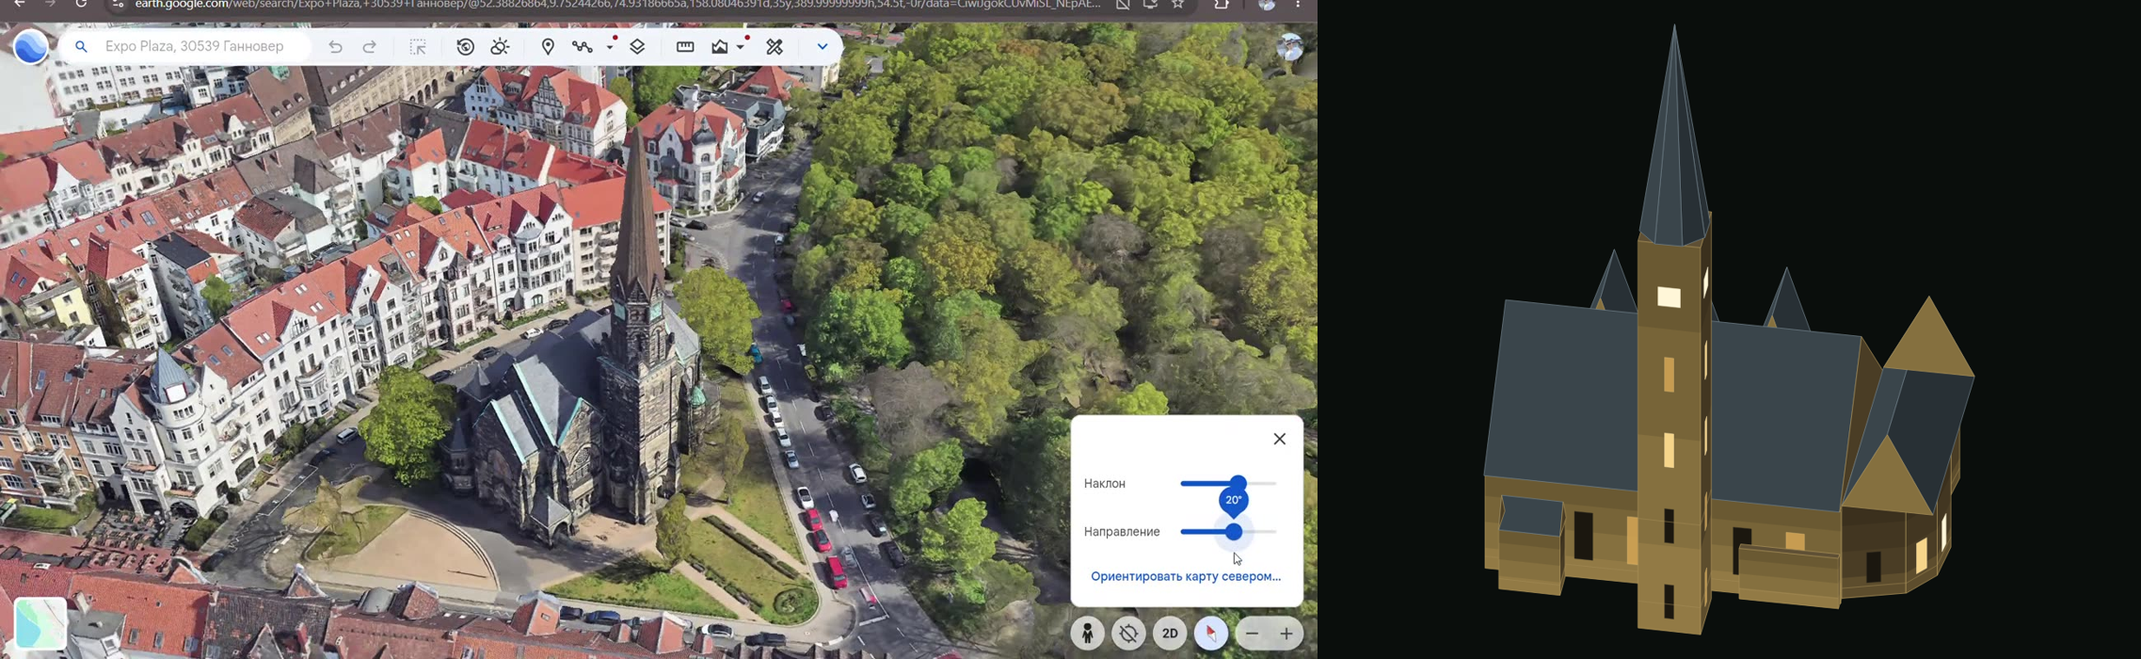
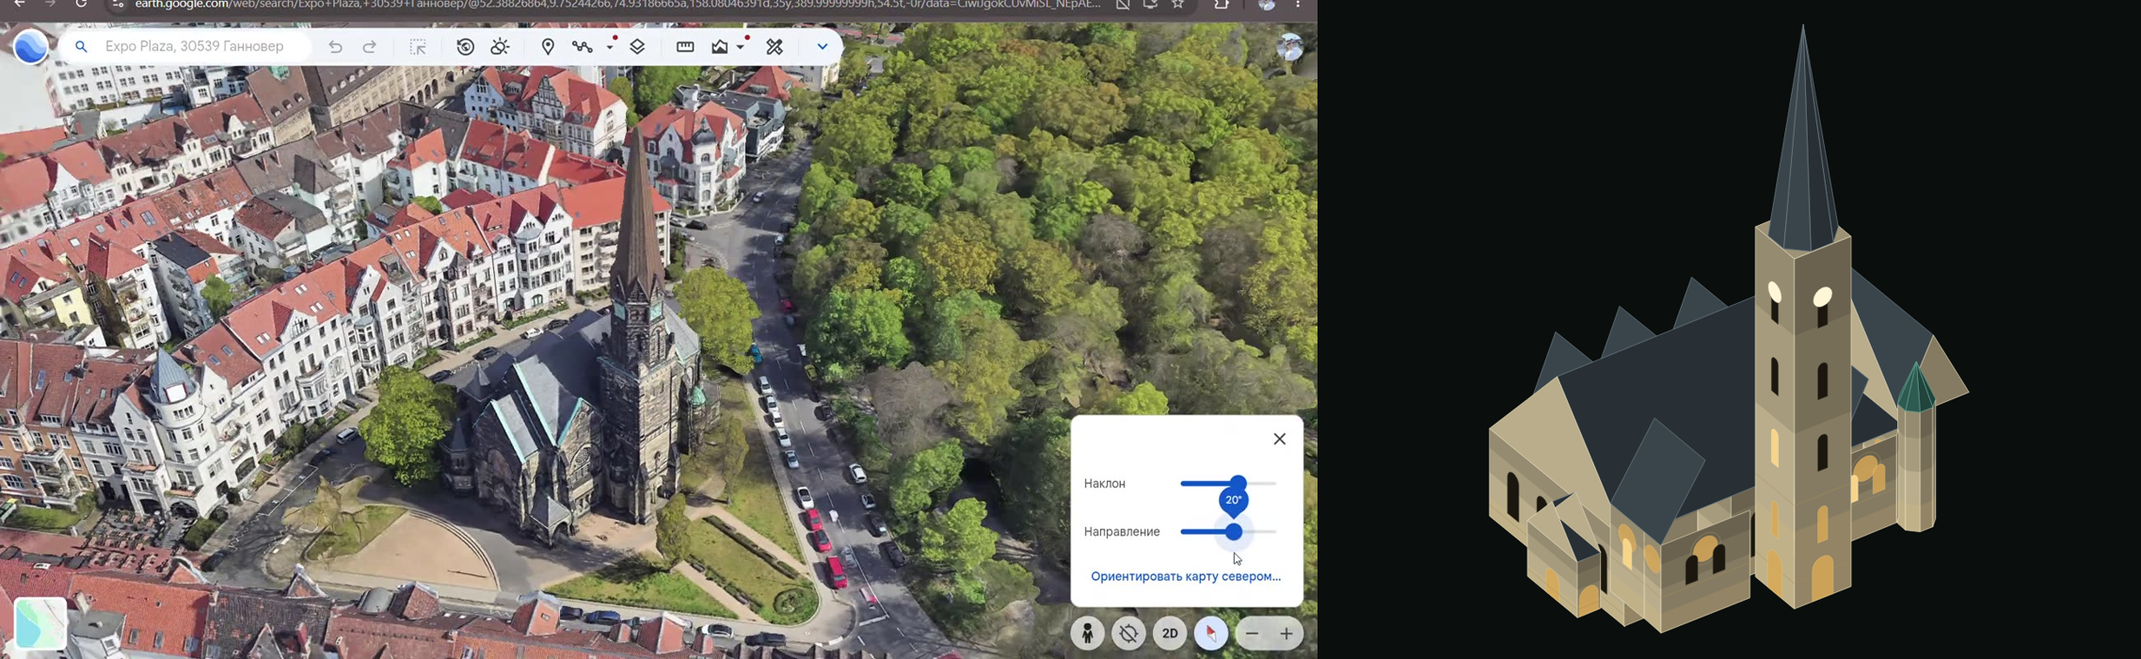
Markuskirche: светлый песчаник, арочные окна, двойная крыша спереди, южные щипцы, башенка
Claude-Session: https://claude.ai/code/session_01VkPSq8kwu8LeaT24qkSQHQ

Changed region(s): [[0.6866, 0.06, 0.9363, 0.96]]

diff --git a/landmarks/markuskirche.js b/landmarks/markuskirche.js
@@ -5,7 +5,7 @@
    Jeder Teil ist in konvexe Stücke zerlegt (Sortierung ohne Durchdringung); Dächer entstehen aus dem Teilumriss. */
 (() => {
   const Z0 = 1;
-  /*DATA*/const D = [[0,11,0,[-16.3,2.9,-20.9,-3.7,-25.0,-0.8,-11.2,18.8],7],[0,11,0,[3.4,-10.9,-2.4,-6.9,-4.0,-5.7,-9.8,-1.7,-10.6,-1.1,-16.3,2.9,-11.2,18.8,17.5,-1.2],85],[0,11,0,[-9.8,-1.7,-14.3,-8.3,-15.2,-7.7,-10.6,-1.1],7],[0,11,0,[-2.4,-6.9,-7.0,-13.4,-8.6,-12.3,-4.0,-5.7],7],[0,11,0,[3.7,-20.9,-1.2,-17.5,3.4,-10.9,17.5,-1.2],11],[0,11,1,[18.3,-15.7,10.9,-19.2,3.4,-21.3,16.9,-2.1,20.7,-7.1,20.7,-11.4],61],[0,11,1,[10.9,-19.2,12.1,-21.9,10.7,-24.5,8.2,-24.9,3.4,-21.3],15],[0,11,2,[-1.3,-17.4,-1.4,-17.7,-7.1,-13.7],3],[0,11,2,[-2.4,-7.0,3.3,-10.9,-1.3,-17.4,-7.1,-13.7],11],[0,11,3,[-8.6,-12.3,-8.8,-12.5,-14.5,-8.5],3],[0,11,3,[-9.7,-1.8,-4.1,-5.7,-8.6,-12.3,-14.5,-8.5],11],[0,11,4,[-15.2,-7.7,-15.3,-8.0,-21.1,-3.9],3],[0,11,4,[-16.3,2.8,-10.6,-1.2,-15.2,-7.7,-21.1,-3.9],11],[0,46,5,[8.0,6.9,2.9,10.4,6.4,15.4,11.5,11.9],15],[0,7,6,[-4.7,14.3,-9.6,17.7,-7.8,20.3,-2.8,16.9],15],[0,6,7,[9.5,4.4,9.9,5.0,17.9,-0.6,17.5,-1.2],15],[46,46,8,[4.2,9.3,3.8,11.9,5.3,14.1,7.9,14.6,10.1,13.0,10.6,10.4,9.1,8.2,6.4,7.7],255]], T = [[11,23.5,2,12.5,0,0,-11.2,18.8,-25.0,-0.8,-20.9,-3.7,-16.3,2.9,-10.6,-1.1,-15.2,-7.7,-14.3,-8.3,-9.8,-1.7,-4.0,-5.7,-8.6,-12.3,-7.0,-13.4,-2.4,-6.9,3.4,-10.9,-1.2,-17.5,3.7,-20.9,17.5,-1.2],[11,20,2,9,0,0,20.7,-7.1,16.9,-2.1,3.4,-21.3,8.2,-24.9,10.7,-24.5,12.1,-21.9,10.9,-19.2,18.3,-15.7,20.7,-11.4],[11,22,2,11,0,0,-1.4,-17.7,-1.3,-17.4,3.3,-10.9,-2.4,-7.0,-7.1,-13.7],[11,22,2,11,0,0,-8.8,-12.5,-8.6,-12.3,-4.1,-5.7,-9.7,-1.8,-14.5,-8.5],[11,22,2,11,0,0,-15.3,-8.0,-15.2,-7.7,-10.6,-1.2,-16.3,2.8,-21.1,-3.9],[46,46,0,0,0,0,6.4,15.4,2.9,10.4,8.0,6.9,11.5,11.9],[7,10,2,3,0,0,-7.8,20.3,-9.6,17.7,-4.7,14.3,-2.8,16.9],[6,6,0,0,0,0,17.9,-0.6,9.9,5.0,9.5,4.4,17.5,-1.2],[46,70,1,24,0,0,9.1,8.2,10.6,10.4,10.1,13.0,7.9,14.6,5.3,14.1,3.8,11.9,4.2,9.3,6.4,7.7]], IDS = ["hall", "chor-o", "giebel3", "giebel2", "giebel1", "turm", "anbau-sw", "anbau-se", "helm"];/*END*/
+  /*DATA*/const D = [[0,11,0,[17.1,-1.1,17.4,-1.3,3.7,-20.9],3],[0,11,0,[13.4,-5.7,16.9,-0.8,17.1,-1.1,3.7,-20.9],3],[0,11,0,[3.4,-10.9,13.4,-5.7,3.7,-20.9,-1.2,-17.5],12],[0,11,0,[-3.6,6.2,-0.2,11.1,9.8,4.1,6.4,-0.8],7],[0,11,0,[3.4,-10.9,-2.4,-6.9,-4.0,-5.7,-9.8,-1.7,-10.6,-1.1,-16.3,2.9,-12.6,12.5,-3.6,6.2,6.4,-0.8,13.4,-5.7],341],[0,11,0,[-25.0,-0.8,-11.2,18.8,-9.2,17.4,-12.6,12.5],7],[0,11,0,[-16.3,2.9,-20.9,-3.7,-25.0,-0.8,-12.6,12.5],3],[0,11,0,[-9.8,-1.7,-14.3,-8.3,-15.2,-7.7,-10.6,-1.1],7],[0,11,0,[-2.4,-6.9,-7.0,-13.4,-8.6,-12.3,-4.0,-5.7],7],[0,11,1,[18.3,-15.7,10.9,-19.2,3.4,-21.3,16.9,-2.1,20.7,-7.1,20.7,-11.4],61],[0,11,1,[10.9,-19.2,12.1,-21.9,10.7,-24.5,8.2,-24.9,3.4,-21.3],15],[0,11,2,[-9.1,17.4,-7.4,20.0,1.7,13.7,-3.6,6.3],7],[0,11,2,[-3.6,6.3,-12.6,12.5,-9.1,17.4],3],[0,11,3,[9.9,4.1,10.4,4.9,16.8,0.4,17.0,-0.6,13.4,-5.7],15],[0,11,3,[13.4,-5.7,6.5,-0.8,9.9,4.1],3],[0,11,4,[-1.3,-17.4,-1.4,-17.7,-7.1,-13.7],3],[0,11,4,[-2.4,-7.0,3.3,-10.9,-1.3,-17.4,-7.1,-13.7],11],[0,11,5,[-8.6,-12.3,-8.8,-12.5,-14.5,-8.5],3],[0,11,5,[-9.7,-1.8,-4.1,-5.7,-8.6,-12.3,-14.5,-8.5],11],[0,11,6,[-15.2,-7.7,-15.3,-8.0,-21.1,-3.9],3],[0,11,6,[-16.3,2.8,-10.6,-1.2,-15.2,-7.7,-21.1,-3.9],11],[0,44,7,[8.1,5.9,2.3,10.0,6.3,15.7,12.1,11.7],15],[0,7,8,[-21.1,9.9,-16.0,17.3,-13.6,15.6,-18.7,8.2],15],[0,15,9,[17.1,-1.1,16.9,0.5,17.7,1.7,19.2,2.0,20.5,1.1,20.8,-0.4,19.9,-1.7,18.4,-1.9],255],[44,44,10,[4.1,8.8,3.6,11.6,5.2,13.9,8.0,14.4,10.3,12.8,10.8,10.0,9.2,7.7,6.4,7.2],255]], T = [[11,24.5,2,13.5,0,0,3.7,-20.9,17.4,-1.3,17.1,-1.1,16.9,-0.8,13.4,-5.7,6.4,-0.8,9.8,4.1,-0.2,11.1,-3.6,6.2,-12.6,12.5,-9.2,17.4,-11.2,18.8,-25.0,-0.8,-20.9,-3.7,-16.3,2.9,-10.6,-1.1,-15.2,-7.7,-14.3,-8.3,-9.8,-1.7,-4.0,-5.7,-8.6,-12.3,-7.0,-13.4,-2.4,-6.9,3.4,-10.9,-1.2,-17.5],[11,20,2,9,0,0,20.7,-7.1,16.9,-2.1,3.4,-21.3,8.2,-24.9,10.7,-24.5,12.1,-21.9,10.9,-19.2,18.3,-15.7,20.7,-11.4],[11,19.5,2,8.5,0,1,1.7,13.7,-7.4,20.0,-9.1,17.4,-12.6,12.5,-3.6,6.3],[11,19.5,2,8.5,0,1,17.0,-0.6,16.8,0.4,10.4,4.9,9.9,4.1,6.5,-0.8,13.4,-5.7],[11,19.5,2,8.5,0,0,-1.4,-17.7,-1.3,-17.4,3.3,-10.9,-2.4,-7.0,-7.1,-13.7],[11,19.5,2,8.5,0,0,-8.8,-12.5,-8.6,-12.3,-4.1,-5.7,-9.7,-1.8,-14.5,-8.5],[11,19.5,2,8.5,0,0,-15.3,-8.0,-15.2,-7.7,-10.6,-1.2,-16.3,2.8,-21.1,-3.9],[44,44,0,0,0,0,6.3,15.7,2.3,10.0,8.1,5.9,12.1,11.7],[7,12,2,5,0,1,-13.6,15.6,-16.0,17.3,-21.1,9.9,-18.7,8.2],[15,20,1,5,1,0,19.9,-1.7,20.8,-0.4,20.5,1.1,19.2,2.0,17.7,1.7,16.9,0.5,17.1,-1.1,18.4,-1.9],[44,70,1,26,0,0,9.2,7.7,10.8,10.0,10.3,12.8,8.0,14.4,5.2,13.9,3.6,11.6,4.1,8.8,6.4,7.2]], IDS = ["hall", "chor-o", "sgiebel1", "sgiebel2", "giebel3", "giebel2", "giebel1", "turm", "anbau-w", "erker", "helm"];/*END*/
   ISO.landmark('markuskirche', H => {
     const { f2, rnd } = H;
     const P = D.map((d, n) => {
@@ -76,6 +76,8 @@
 
     /* ---------- Fassaden (Wandkoordinaten: u nach rechts, v nach unten ab Oberkante) ---------- */
     const rect = (x, y, w, h) => `M${f2(x)} ${f2(y)}h${f2(w)}v${f2(h)}h${f2(-w)}z`;
+    const archP = (x, y, w, h) => `M${f2(x)} ${f2(y + h)}V${f2(y + w / 2)}A${f2(w / 2)} ${f2(w / 2)} 0 0 1 ${f2(x + w)} ${f2(y + w / 2)}V${f2(y + h)}z`;
+    const disc = (cx, cy, r) => `M${f2(cx - r)} ${f2(cy)}a${f2(r)} ${f2(r)} 0 1 0 ${f2(2 * r)} 0a${f2(r)} ${f2(r)} 0 1 0 ${f2(-2 * r)} 0z`;
     function windows(len, h, o) {
       const { fh, bay, ww, wh, sill, mx } = o, acc = {}, rows = Math.floor((h - (o.top || mx)) / fh);
       if (rows < 1 || len < ww + 2 * mx) return '';
@@ -85,25 +87,35 @@
         if (yb - wh < .3) continue;
         for (let b = 0; b < nb; b++) {
           const q = rnd(), c = q < o.pOff ? ' off' : q < o.pOff + o.pDim ? ' dim' : q < o.pOff + o.pDim + o.pHi ? ' hi' : '';
-          const key = f + c; (acc[key] = acc[key] || []).push(rect(off + b * bay, yb - wh, ww, wh));
+          const key = f + c; (acc[key] = acc[key] || []).push((o.arch ? archP : rect)(off + b * bay, yb - wh, ww, wh));
         }
       }
       return Object.entries(acc).map(([k, v]) => { const [f, ...c] = k.split(' '); return `<path class="wn${c.length ? ' ' + c.join(' ') : ''}" data-f="${f}" d="${v.join('')}"/>`; }).join('');
     }
     const vlines = (len, h, step) => { let d = ''; for (let u = step / 2; u < len; u += step) d += `M${f2(u)} 0V${f2(h)}`; return `<path class="dt" d="${d}"/>`; };
     const hlines = (len, ys) => ys.length ? `<path class="dt" d="${ys.map(y => `M0 ${f2(y)}H${f2(len)}`).join('')}"/>` : '';
-    const LIT = { pOff: .52, pDim: .24, pHi: .08 };
-    const NAVE = { fh: 8.4, bay: 5.2, ww: 1.8, wh: 5.6, sill: 2.2, mx: 2.0, ...LIT };
-    const GABL = { fh: 8.4, bay: 7, ww: 4.4, wh: 5.6, sill: 2.2, mx: 1.2, ...LIT };
-    const TURM = { fh: 9, bay: 3.2, ww: .9, wh: 4, sill: 1.5, mx: 1.4, pOff: .55, pDim: .2, pHi: .05 };
-    const SMALL = { fh: 8, bay: 3.6, ww: 1.4, wh: 3.6, sill: 1.6, mx: 1.2, ...LIT };
+    const LIT = { pOff: .50, pDim: .26, pHi: .08 };
+    const NAVE = { fh: 8.4, bay: 5.2, ww: 2.0, wh: 5.6, sill: 2.2, mx: 2.0, arch: 1, ...LIT };
+    const GABL = { fh: 4.6, bay: 3.4, ww: 1.5, wh: 3.4, sill: 1.0, mx: 1.4, arch: 1, ...LIT };
+    const TURM = { fh: 9, bay: 3.4, ww: 1.2, wh: 4.4, sill: 1.5, mx: 1.4, arch: 1, pOff: .55, pDim: .2, pHi: .05 };
+    const SMALL = { fh: 7.4, bay: 3.6, ww: 1.6, wh: 4, sill: 1.6, mx: 1.2, arch: 1, ...LIT };
+    const path = (c, d, f) => `<path class="${c}"${f ? ` data-f="${f}"` : ''} d="${d}"/>`;
     function deco(p) {
       const id = IDS[p.part];
       return (len, h) => {
         if (len < 2.2 || h < 1) return '';
-        if (id === 'turm') return windows(len, h, TURM) + (len > 4 ? `<path class="wn hi" data-f="4" d="${rect(len / 2 - 1.1, 5.2, 2.2, 2.2)}"/>` : '') + hlines(len, [h - 13, h - 3.2]);    // Uhr unter dem Glockengeschoss
+        if (id === 'turm') {   // Portal unten, Uhr, hohe Spitzbogenfenster
+          let s = windows(len, h - 5.6, TURM) + hlines(len, [h - 13, h - 3.2]);
+          if (len > 4) s += path('wn hi', disc(len / 2, 6.2, 1.15), 4) + path('wn dim', archP(len / 2 - 1.3, h - 5.2, 2.6, 5.2), 1);
+          return s;
+        }
+        if (id.startsWith('sgiebel')) {   // Südgiebel: Rose, Bogenfenster, Portal
+          let s = path('wn dim', disc(len / 2, 2.6, 1.5), 4) + path('dt', disc(len / 2, 2.6, 1.9)) + windows(len, h - 3.8, GABL);
+          return s + hlines(len, [h - 4.4]);
+        }
         if (id.startsWith('giebel')) return windows(len, h, GABL) + hlines(len, [2.2]);
         if (id === 'hall') return windows(len, h, NAVE) + hlines(len, [h - 1.4]);
+        if (id === 'anbau-w') return path('wn dim', archP(len / 2 - 1.2, h - 3.4, 2.4, 3.4), 1) + hlines(len, [h - 1]);
         return windows(len, h, SMALL) + hlines(len, [h - 1.2]);
       };
     }
@@ -113,7 +125,7 @@
     function roof(K, q) {
       const { zw, h, shape, rh, mc, r } = q, z = Z0 + zw, zt = Z0 + h, mat = MATS[mc];
       const cx = r.reduce((a, p) => a + p[0], 0) / r.length, cy = r.reduce((a, p) => a + p[1], 0) / r.length;
-      if (shape === 0) return K.poly(r.map(p => [p[0], p[1], zt]), 'st tp');
+      if (shape === 0) return K.poly(r.map(p => [p[0], p[1], zt]), 'pl tp');
       if (shape === 1) { let s = ''; for (let i = 0; i < r.length; i++) { const a = r[i], b = r[(i + 1) % r.length]; s += K.face([[a[0], a[1], z], [b[0], b[1], z], [cx, cy, zt]], mat); } return s; }
       if (shape === 4) {
         let R = 0; r.forEach(p => R += Math.hypot(p[0] - cx, p[1] - cy)); R /= r.length;
@@ -126,28 +138,40 @@
         }
         return s;
       }
-      // Sattel-/Walmdach auf dem Hüllrechteck (längste Kante bestimmt die Firstrichtung)
+      // Sattel-/Walmdach auf dem Hüllrechteck: First entlang der längeren Seite (q.sw dreht um 90°)
       let bi = 0, bl = 0; r.forEach((p, i) => { const n = r[(i + 1) % r.length], l = Math.hypot(n[0] - p[0], n[1] - p[1]); if (l > bl) { bl = l; bi = i; } });
       const e0 = r[bi], e1 = r[(bi + 1) % r.length];
-      let ux = (e1[0] - e0[0]) / bl, uy = (e1[1] - e0[1]) / bl; if (q.sw) [ux, uy] = [-uy, ux];
+      let ux = (e1[0] - e0[0]) / bl, uy = (e1[1] - e0[1]) / bl;
+      const ext = (ux, uy) => { let u0 = 1e9, u1 = -1e9, v0 = 1e9, v1 = -1e9; r.forEach(p => { const u = (p[0] - e0[0]) * ux + (p[1] - e0[1]) * uy, v = -(p[0] - e0[0]) * uy + (p[1] - e0[1]) * ux; u0 = Math.min(u0, u); u1 = Math.max(u1, u); v0 = Math.min(v0, v); v1 = Math.max(v1, v); }); return [u0, u1, v0, v1]; };
+      let [u0, u1, v0, v1] = ext(ux, uy);
+      if (u1 - u0 < v1 - v0) { [ux, uy] = [-uy, ux]; [u0, u1, v0, v1] = ext(ux, uy); }
+      if (q.sw) { [ux, uy] = [-uy, ux]; [u0, u1, v0, v1] = ext(ux, uy); }
       const vx = -uy, vy = ux;
-      let u0 = 1e9, u1 = -1e9, v0 = 1e9, v1 = -1e9;
-      r.forEach(p => { const u = (p[0] - e0[0]) * ux + (p[1] - e0[1]) * uy, v = (p[0] - e0[0]) * vx + (p[1] - e0[1]) * vy; u0 = Math.min(u0, u); u1 = Math.max(u1, u); v0 = Math.min(v0, v); v1 = Math.max(v1, v); });
       const W = (u, v, zz) => [e0[0] + u * ux + v * vx, e0[1] + u * uy + v * vy, zz], vm = (v0 + v1) / 2, hw = (v1 - v0) / 2;
       const hip = shape === 3 && (u1 - u0) > 2 * hw ? hw : 0;
       const A = W(u0, v0, z), B = W(u1, v0, z), C = W(u1, v1, z), Dd = W(u0, v1, z), R0 = W(u0 + hip, vm, zt), R1 = W(u1 - hip, vm, zt);
       let s = K.face([A, B, R1, R0], mat) + K.face([C, Dd, R0, R1], mat);
-      s += hip ? K.face([B, C, R1], mat) + K.face([Dd, A, R0], mat) : K.face([B, C, R1], 'st') + K.face([Dd, A, R0], 'st');
+      s += hip ? K.face([B, C, R1], mat) + K.face([Dd, A, R0], mat) : K.face([B, C, R1], 'pl') + K.face([Dd, A, R0], 'pl');
+      if (shape === 2 && mc === 0) {   // grüne Kupferkante (Ortgang) am zugewandten Giebelende
+        const e = K.facing(ux, uy) > 0 ? [B, R1, C] : K.facing(-ux, -uy) > 0 ? [Dd, R0, A] : null;
+        if (e) s += `<path class="cu-d" fill="none" stroke-width="1.4" d="${K.path(e)}"/>`;
+      }
       return s;
     }
 
     /* ---------- Zeichnen ---------- */
     const draw = K => {
+      // Reihenfolge für den einen Kartenblick: Teile von hinten nach vorn (Tiefe des Teilschwerpunkts), je Teil erst Wände (hinten → vorn), dann Dach.
+      // Das Satteldach des Langhauses überdeckt so die niedrigeren Nordgiebel, Südgiebel/Turm/Chor stehen davor.
+      const [vx, vy] = K.view, dep = (x, y) => x * vx + y * vy;
+      const info = PART.map((q, i) => { const ps = P.filter(p => p.part === i); const cx = q.r.reduce((a, p) => a + p[0], 0) / q.r.length, cy = q.r.reduce((a, p) => a + p[1], 0) / q.r.length; return { i, ps, d: dep(cx, cy), z0: Math.min(...ps.map(p => p.z0)) }; });
+      info.sort((a, b) => (a.z0 - b.z0 > 20 ? 1 : b.z0 - a.z0 > 20 ? -1 : a.d - b.d));
       let s = '';
-      const left = PART.map(() => 0); P.forEach(p => left[p.part]++);
-      order(K).forEach(p => {
-        if (p.z1 - p.z0 > .05) for (let i = 0; i < p.v.length; i++) if (p.m >> i & 1) s += K.wall(p.v[i], p.v[(i + 1) % p.v.length], Z0 + p.z0, Z0 + p.z1, 'st', deco(p));
-        if (--left[p.part] === 0) s += roof(K, PART[p.part]);
+      info.forEach(({ i, ps }) => {
+        ps.slice().sort((a, b) => dep(a.cx, a.cy) - dep(b.cx, b.cy)).forEach(p => {
+          if (p.z1 - p.z0 > .05) for (let k = 0; k < p.v.length; k++) if (p.m >> k & 1) s += K.wall(p.v[k], p.v[(k + 1) % p.v.length], Z0 + p.z0, Z0 + p.z1, 'pl', deco(p));
+        });
+        s += roof(K, PART[i]);
       });
       return s;
     };

diff --git a/ref/markuskirche/gen/gen-mk.py b/ref/markuskirche/gen/gen-mk.py
@@ -28,23 +28,25 @@ def rect(u0, u1, v0, v1): return [(u0, v0), (u1, v0), (u1, v1), (u0, v1)]
 def octagon(cu, cv, r): return [(cu + r * math.cos(math.pi / 8 + k * math.pi / 4), cv + r * math.sin(math.pi / 8 + k * math.pi / 4)) for k in range(8)]
 SH = {'flat': 0, 'pyramidal': 1, 'gabled': 2, 'hipped': 3, 'dome': 4}
 DORM = [(-11.5, 3.5), (-3.5, 3.5), (5.5, 3.5)]          # Mitte u, halbe Breite der drei Giebel an der NNW-Seite
+SGIE = [(-17.5, -6.5, -12.2), (5.7, 14.3, -10.0)]        # zwei Giebel an der Südfassade beidseits des Turms: u0, u1, vorderste Kante
 hall = box(-20, -9, 15, 15)
 for cu, hw in DORM: hall = hall.difference(box(cu - hw, 7, cu + hw, 15.5))
-TOWER = (-3.6, 2.6, -16.3, -10.2)
+for u0, u1, vf in SGIE: hall = hall.difference(box(u0, -9.5, u1, -3))
+TOWER = (-3.8, 3.2, -16.5, -9.5)
 tw = box(TOWER[0], TOWER[2], TOWER[1], TOWER[3])
-def P(pg, **k): return dict(pg=pg, **k)
 def upg(g): return Polygon([uv(*p) for p in g.exterior.coords[:-1]])
 parts = []
 def add(id, ring_uv, z0, zw, shape='flat', rh=0, mc=0, sw=0, name=''):
     pg = Polygon([uv(*p) for p in ring_uv]) if not hasattr(ring_uv, 'exterior') else upg(ring_uv)
     parts.append(dict(id=id, pg=pg, z0=z0, zw=zw, h=zw + rh, shape=SH[shape], rh=rh, mc=mc, sw=sw, area=pg.area))
-add('hall', hall, 0, 11, 'gabled', 12.5)
-for i, (cu, hw) in enumerate(DORM): add('giebel%d' % (i + 1), rect(cu - hw, cu + hw, 7, 15.3), 0, 11, 'gabled', 11)
-add('anbau-sw', rect(-18, -12, -12.2, -9), 0, 7, 'gabled', 3)
-add('anbau-se', rect(5.2, 15, -9.8, -9), 0, 6)
+add('hall', hall, 0, 11, 'gabled', 13.5)
+for i, (cu, hw) in enumerate(DORM): add('giebel%d' % (i + 1), rect(cu - hw, cu + hw, 7, 15.3), 0, 11, 'gabled', 8.5)
+for i, (u0, u1, vf) in enumerate(SGIE): add('sgiebel%d' % (i + 1), rect(u0, u1, vf, -3), 0, 11, 'gabled', 8.5, sw=1)
 add('chor-o', [(15, -8), (21, -6), (23.5, -2.5), (24, 2.4), (20, 9.5), (22.5, 11), (22.8, 14), (21, 15.7), (15, 15.5)], 0, 11, 'gabled', 9)
-add('turm', rect(TOWER[0], TOWER[1], TOWER[2], TOWER[3]), 0, 46)
-add('helm', octagon((TOWER[0] + TOWER[1]) / 2, (TOWER[2] + TOWER[3]) / 2, 3.5), 46, 46, 'pyramidal', 24)
+add('anbau-w', rect(-23, -19.5, -5, 4), 0, 7, 'gabled', 5, sw=1)
+add('turm', rect(TOWER[0], TOWER[1], TOWER[2], TOWER[3]), 0, 44)
+add('helm', octagon((TOWER[0] + TOWER[1]) / 2, (TOWER[2] + TOWER[3]) / 2, 3.7), 44, 44, 'pyramidal', 26)
+add('erker', octagon(15.4, -10.8, 2.0), 0, 15, 'pyramidal', 5, mc=1)
 # Überlappungen im Grundriss: wo sich die Höhenbereiche schneiden, behält das höhere Teil die Fläche
 def prio(p): return (round(p['zw'], 1), p['area'])
 for a in parts:

diff --git a/ref/markuskirche/README.md b/ref/markuskirche/README.md
@@ -1,20 +1,20 @@
 # Markuskirche — отчёт
 
-**Что нарисовано.** Модуль `landmarks/markuskirche.js`: длинный неф (steiles Satteldach, шифер), три щипца на северо-западной стене, хор на востоке, башня посередине южной стороны (≈ 70 м) с восьмигранным шпилем, две низкие пристройки. Из OSM только общий контур `w44834907` (одним полигоном), поэтому части и высоты подобраны вручную по кадрам (`ref/markuskirche/gen/gen-mk.py`, `TEILE.md`). 17 выпуклых кусков, SVG ≈ 12 КБ.
+**Что нарисовано.** Модуль `landmarks/markuskirche.js`: светлый песчаник (цвет по k01/k02), башня по центру южного фасада (≈ 70 м, шпиль), два южных щипца с розой, арочными окнами и медной окантовкой, круглая башенка с зелёной крышей справа, неф с крутой шиферной крышей и тремя щипцами на СЗ-стороне, хор на востоке, низкий западный входной щипец перед большим (двойная крыша спереди). Окна нефа и щипцов с арками. Из OSM только общий контур `w44834907`; части и высоты подобраны по кадрам (`gen/gen-mk.py`, `TEILE.md`). 11 частей, 25 кусков, SVG лёгкий.
 
 **Сторона → кадры.**
 | Сторона | Кадры |
 |---|---|
+| Юг (башня, два щипца) | k01-sued, v_06, v_08 |
+| Юго-запад (западная группа щипцов) | k02-suedwest, v_04, v_05 |
 | СЗ (щипцы) | v_01, v_02, v_03 |
-| Запад (щипец с розой) | v_04, v_05 |
-| Юг (башня и вход) | v_06, v_08 |
-| Восток (хор) | v_07, частично v_05 (закрыт деревьями) |
+| Восток (хор) | v_07 (закрыт деревьями) |
 
-**Сравнения.** `vergleich-1.png` (v_03, вид на СЗ-стену и башню), `vergleich-2.png` (v_06, вход под башней), `vergleich-3.png` (v_05, западный щипец). Расстановка частей и силуэт совпадают; отличия: у настоящей башни более богатый декор, роза и аркады на щипцах не нарисованы.
+**Сравнения.** `vergleich-1.png` (k01, юг), `vergleich-2.png` (v_06), `vergleich-3.png` (v_03). Расстановка и цвет совпадают; башня у модели грубее (нет колокольни и ступенчатых контрфорсов), шпиль тоньше настоящего.
 
-**По аналогии / не видно.** Хор и восточная сторона, декор башни, контрфорсы, угловые башенки. Высоты стен и коньков оценены по пропорциям кадров (±2 м).
+**По аналогии / не видно.** Порталы и аркады под южными щипцами, восточный хор, колокольня, верх шпиля, контрфорсы. Высоты оценены по кадрам (±2 м).
 
-**Непроверенные факты.** Архитектор О. Люэр, 1902–1906, башня ≈ 70 м, 400 бетонных свай (de.wikipedia и de-academic совпадают); тип/материал кладки в источниках не указан, рисую как тёмный камень.
+**Непроверенные факты.** О. Люэр, 1902–1906, башня ≈ 70 м, 400 бетонных свай (de.wikipedia и de-academic совпадают).
 
 **Нужно от сборщика/core.**
 1. Идея Степана: в карточке рисовать здание лицевой стороной (на карте реальная ориентация). Для этого нужен поворот `phi` в `studio.js`; у каждого здания в meta можно хранить лицевую сторону (`face`). Здесь «лицо» — южная сторона с башней.

diff --git a/ref/markuskirche/gen/TEILE.md b/ref/markuskirche/gen/TEILE.md
@@ -4,12 +4,14 @@ Anker (meta point): 52.388300, 9.752300, Kante 90 m
 
 | # | Teil | von z | Wand bis | Dach | Dachhöhe |
 |---|---|---|---|---|---|
-| 0 | hall | 0.0 | 11.0 | Satteldach | 12.5 |
+| 0 | hall | 0.0 | 11.0 | Satteldach | 13.5 |
 | 1 | chor-o | 0.0 | 11.0 | Satteldach | 9.0 |
-| 2 | giebel3 | 0.0 | 11.0 | Satteldach | 11.0 |
-| 3 | giebel2 | 0.0 | 11.0 | Satteldach | 11.0 |
-| 4 | giebel1 | 0.0 | 11.0 | Satteldach | 11.0 |
-| 5 | turm | 0.0 | 46.0 | flach | 0.0 |
-| 6 | anbau-sw | 0.0 | 7.0 | Satteldach | 3.0 |
-| 7 | anbau-se | 0.0 | 6.0 | flach | 0.0 |
-| 8 | helm | 46.0 | 46.0 | Pyramide | 24.0 |
+| 2 | sgiebel1 | 0.0 | 11.0 | Satteldach | 8.5 |
+| 3 | sgiebel2 | 0.0 | 11.0 | Satteldach | 8.5 |
+| 4 | giebel3 | 0.0 | 11.0 | Satteldach | 8.5 |
+| 5 | giebel2 | 0.0 | 11.0 | Satteldach | 8.5 |
+| 6 | giebel1 | 0.0 | 11.0 | Satteldach | 8.5 |
+| 7 | turm | 0.0 | 44.0 | flach | 0.0 |
+| 8 | anbau-w | 0.0 | 7.0 | Satteldach | 5.0 |
+| 9 | erker | 0.0 | 15.0 | Pyramide | 5.0 |
+| 10 | helm | 44.0 | 44.0 | Pyramide | 26.0 |

diff --git a/ref/markuskirche/INDEX.md b/ref/markuskirche/INDEX.md
@@ -18,3 +18,7 @@
 - Запад: большой щипец с розой и порталом (кадр v_05).
 - Восток: апсида/хор, скруглённый (контур OSM), по кадрам видно плохо (деревья).
 - Не видно: восточные и северо-восточные детали, форма контрфорсов, декор башни — по аналогии.
+
+## Новые кадры
+- k01-sued.jpg: взгляд с ЮЮЗ на ССВ; башня по центру южного фасада, два щипца с розами/аркадами/порталами, справа круглая башенка с зелёной крышей, светлый песчаник.
+- k02-suedwest.jpg: с ЮЗ, тень; западная группа: низкий входной щипец перед большим.
